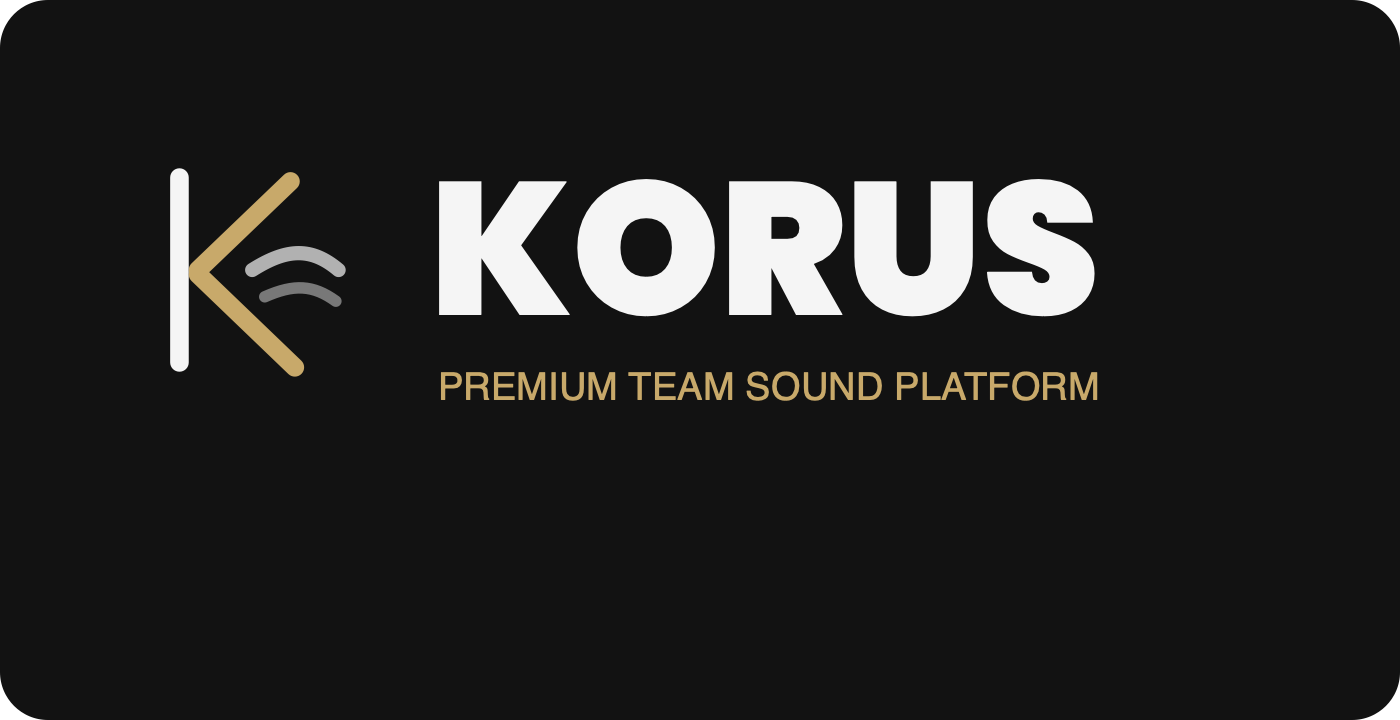
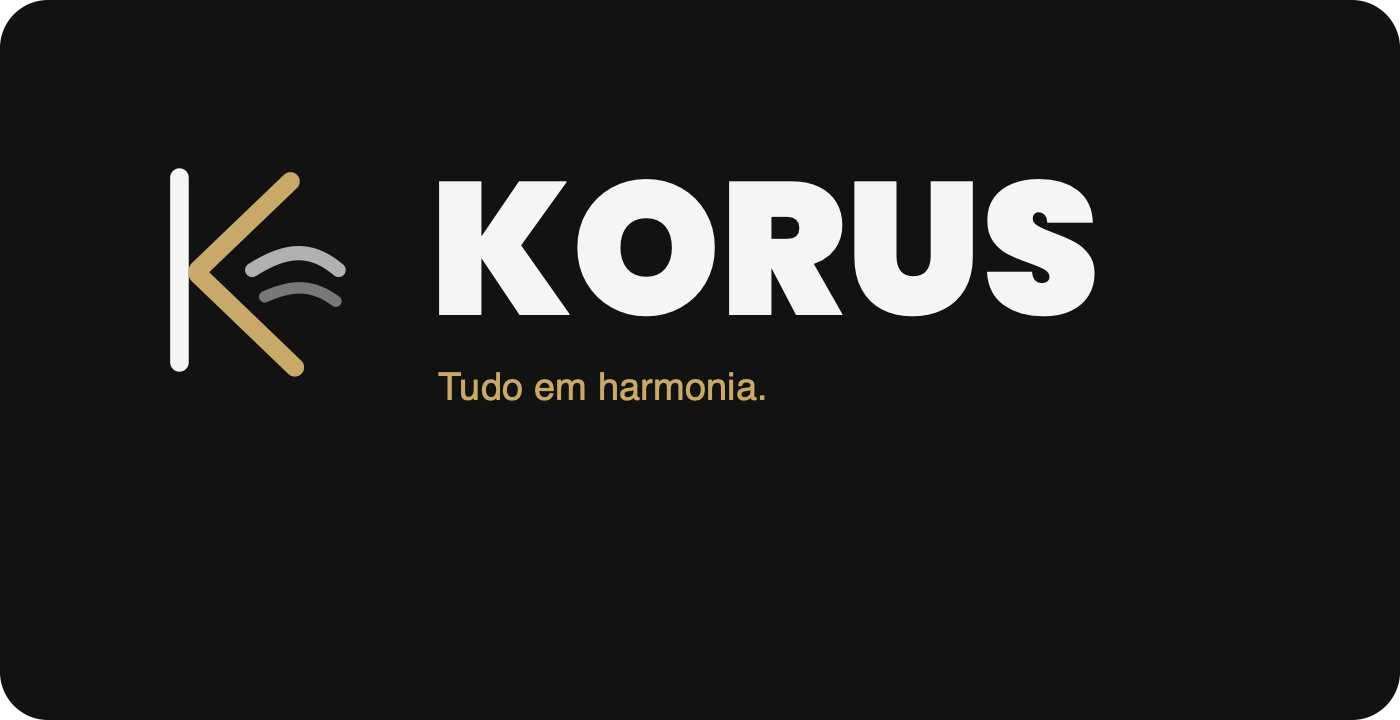
Adopt Portuguese KORUS tagline

Changed region(s): [[0.3071, 0.5194, 0.7986, 0.5806]]

diff --git a/apps/frontend/src/components/auth/auth-panel.tsx b/apps/frontend/src/components/auth/auth-panel.tsx
@@ -32,7 +32,7 @@ export function AuthPanel() {
       <section className="glass w-full max-w-[500px] rounded-[30px] p-7">
         <KorusWordmark tone="dark" className="h-auto w-[224px]" />
         <h1 className="mt-6 text-3xl" data-display="true">
-          {authMode === 'login' ? 'Entrar no workspace' : 'Criar acesso'}
+          {authMode === 'login' ? 'Entrar na plataforma' : 'Criar acesso'}
         </h1>
         <p className="mt-2 text-sm text-[var(--muted)]">
           {authMode === 'login'

diff --git a/apps/frontend/src/components/notices/notices-panel.tsx b/apps/frontend/src/components/notices/notices-panel.tsx
@@ -117,7 +117,7 @@ export function NoticesPanel() {
             Olá, {currentUser?.name?.split(' ')[0] || 'time'}
           </h2>
           <p className="mt-2 max-w-2xl text-sm text-[var(--muted)]">
-            Avisos, próximos compromissos e atalhos rápidos do seu workspace KORUS.
+            Avisos, próximos compromissos e atalhos rápidos da sua plataforma KORUS.
           </p>
 
           <div className="mt-5 grid gap-3 lg:grid-cols-[minmax(0,1.2fr)_minmax(0,0.8fr)]">

diff --git a/apps/frontend/src/components/layout/sidebar.tsx b/apps/frontend/src/components/layout/sidebar.tsx
@@ -91,7 +91,7 @@ export function Sidebar() {
           </div>
           <div>
             <p className="text-[10px] uppercase tracking-[0.22em] text-white/45">KORUS</p>
-            <h1 className="mt-1 text-lg" data-display="true">Control hub</h1>
+            <h1 className="mt-1 text-lg" data-display="true">Tudo em harmonia.</h1>
           </div>
         </div>
         {activeSection === 'schedules' || activeSection === 'repertoire' ? (

diff --git a/apps/frontend/src/app/manifest.ts b/apps/frontend/src/app/manifest.ts
@@ -4,7 +4,7 @@ export default function manifest(): MetadataRoute.Manifest {
   return {
     name: 'KORUS',
     short_name: 'KORUS',
-    description: 'Workspace premium para escalas, repertório e colaboração musical.',
+    description: 'KORUS. Tudo em harmonia.',
     start_url: '/',
     display: 'standalone',
     background_color: '#121212',

diff --git a/apps/frontend/src/app/layout.tsx b/apps/frontend/src/app/layout.tsx
@@ -15,7 +15,7 @@ const poppins = Poppins({
 
 export const metadata: Metadata = {
   title: 'KORUS',
-  description: 'Coordenação de escalas, repertório e comunicação em um workspace premium.',
+  description: 'KORUS. Tudo em harmonia.',
   icons: {
     icon: [
       { url: '/brand/favicon-32.png', sizes: '32x32', type: 'image/png' },

diff --git a/apps/frontend/src/components/brand/korus-brand.tsx b/apps/frontend/src/components/brand/korus-brand.tsx
@@ -115,7 +115,7 @@ export function KorusWordmark({
         letterSpacing="0.18em"
         textAnchor={stacked ? 'middle' : 'start'}
       >
-        TEAM SOUND COLLABORATION
+        Tudo em harmonia.
       </text>
     </svg>
   );
